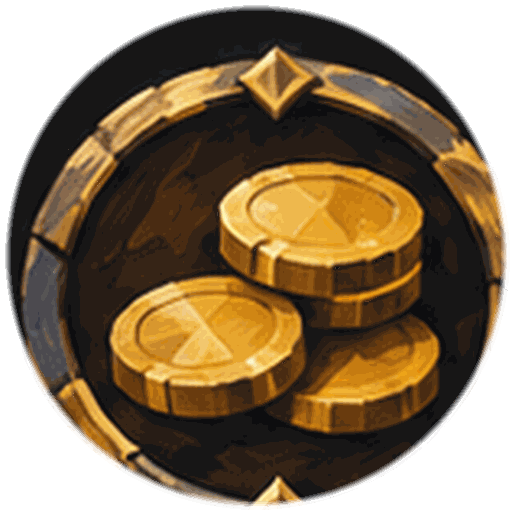
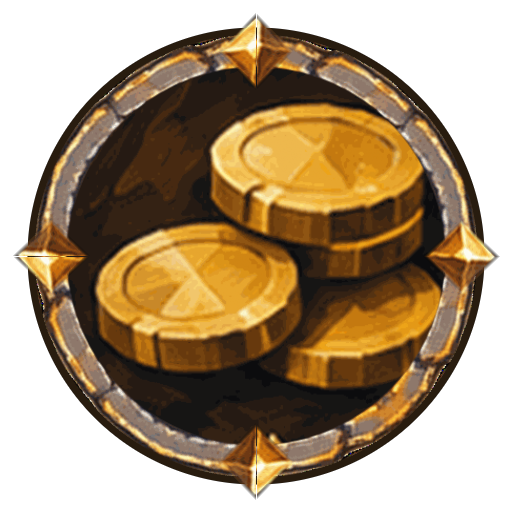
Door medallions: one shared complete frame for all 25 (stone band mirrored from boon.png, diamonds on the compass points), each centre picture re-centred and scaled into it; tools/art to redo it

diff --git a/docs/art/medallions_rev02.md b/docs/art/medallions_rev02.md
@@ -29,3 +29,16 @@ A 64 px as Bênçãos de uma mesma família ficam iguais: muda só o selo do can
 
 Pedido sugerido ao ChatGPT: manter fundo e moldura da família, mas trocar o selo pequeno por um **pictograma central grande
 (cerca de 45% do disco) da ação** (ataque, especial, Brado, Investida, esquiva, Ômega, passivo), legível em cinza a 64 px.
+
+## Conserto técnico das molduras das portas (2026-11-23)
+O Daniel achou os 25 medalhões das portas ruins: o anel pintado vinha cortado, incompleto ou fora do centro (o jogo desde o
+commit 08b1db8 mostra o PNG inteiro, recortado pelo alfa). Agora os 25 têm a **mesma moldura**, completa, redonda e centrada
+(`docs/gallery/medallions_rev02/portas_consertadas.jpg`, antes e depois a 128 e 64 px). Como: a faixa de pedra limpa do anel de
+`boon.png` (entre o losango da esquerda e o de cima) é espelhada em volta do círculo inteiro, com contorno escuro próprio (some a
+franja vermelha e a sombra do adesivo), e o losango de cima é recortado e posto nos quatro pontos. Cada desenho central é cortado
+no vão do anel que ele trazia (centro e raio conferidos à mão por sobreposição, `tools/art/medallion_rings.json`), escalado para o
+vão da moldura nova, com o fundo escuro de cada um; `heart` e `heal` têm um corte inferior (`y_cut`) para esconder o resto do anel
+velho. Sem texto novo, desenhos intactos. Para refazer com arte nova: `tools/art/fix_medallions.gd` (originais em uma pasta,
+saída em outra; `medallion_overlay.gd` confere os círculos, `medallion_sheet.gd` faz pranchas, `medallion_fit.gd` é só a
+tentativa automática, que falhou nos anéis cortados). Os originais ficam no histórico do git (commit anterior).
+Mipmaps ligados nos 25 `.import`.
